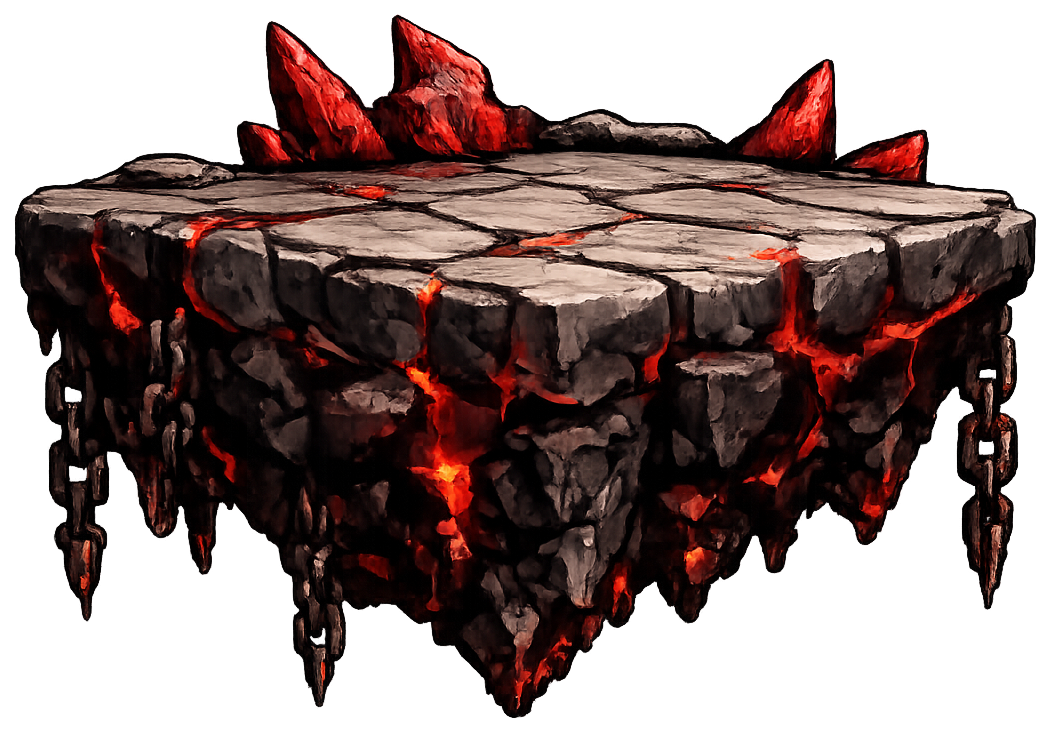
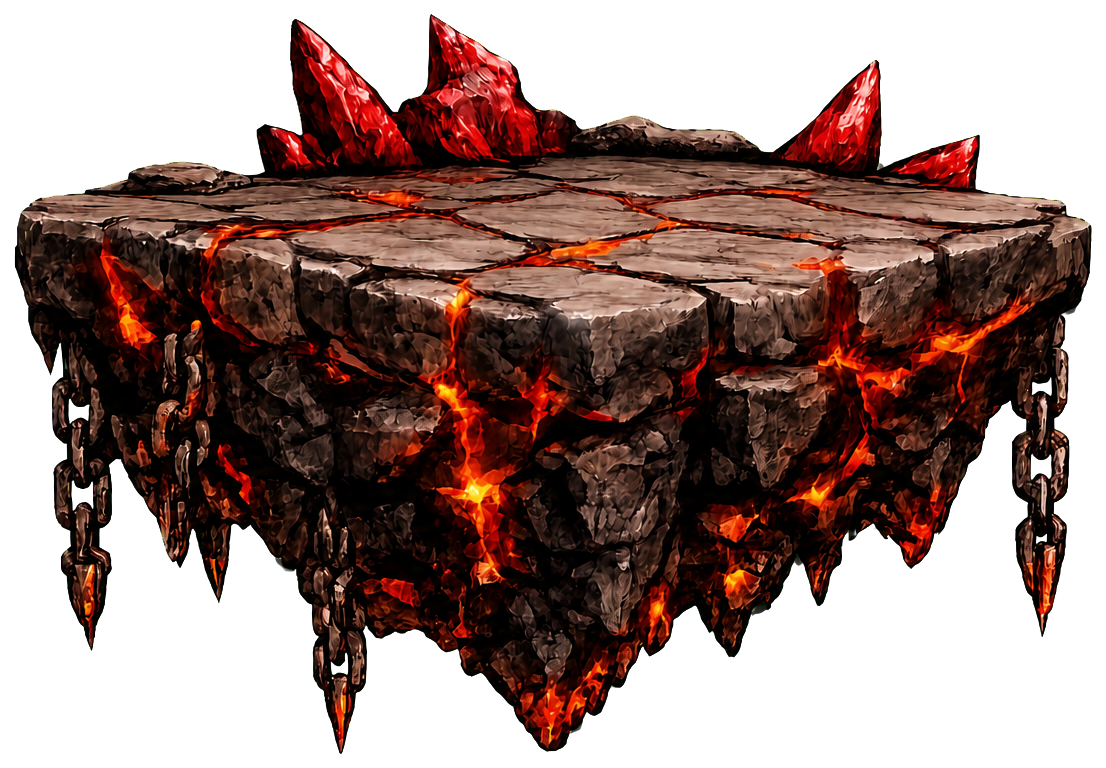
Replace Colt Run platform 05

diff --git a/app.js b/app.js
@@ -2046,6 +2046,7 @@ function startColtRunGame() {
   coltSprites.leap.src = "assets/colt-run-leap.png?v=20260702-clean";
   const smallPlatformSpriteIndex = 21;
   const platformAssetVersions = Array.from({ length: 22 }, () => "20260718-platform07-replace1");
+  platformAssetVersions[4] = "20260718-platform05-replace1";
   const platformSpriteSources = platformAssetVersions.map((version, index) => (
     `assets/colt-run-platform-${String(index + 1).padStart(2, "0")}.png?v=${version}`
   ));

diff --git a/index.html b/index.html
@@ -8,7 +8,7 @@
 </head>
 <body>
   <main id="app" class="app-shell"></main>
-  <script src="app.js?v=20260718-loading-opt1"></script>
+  <script src="app.js?v=20260718-platform05-replace1"></script>
 </body>
 </html>
 
